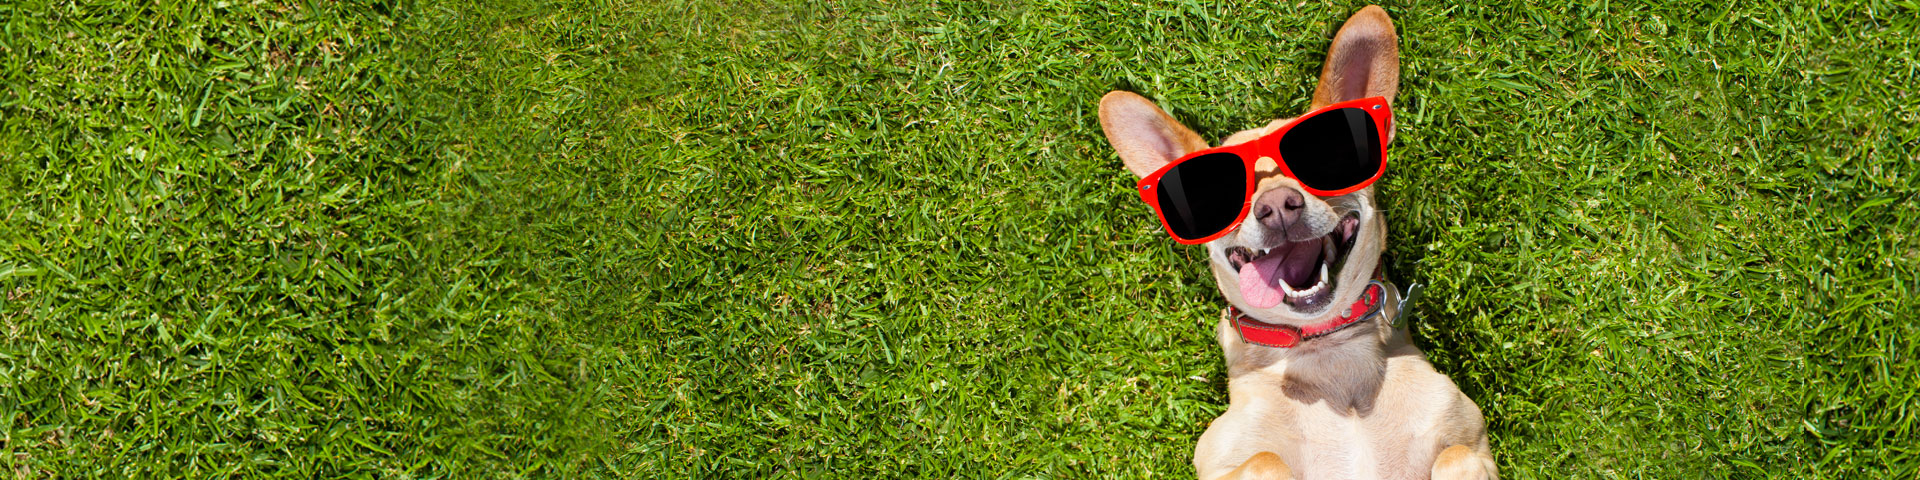
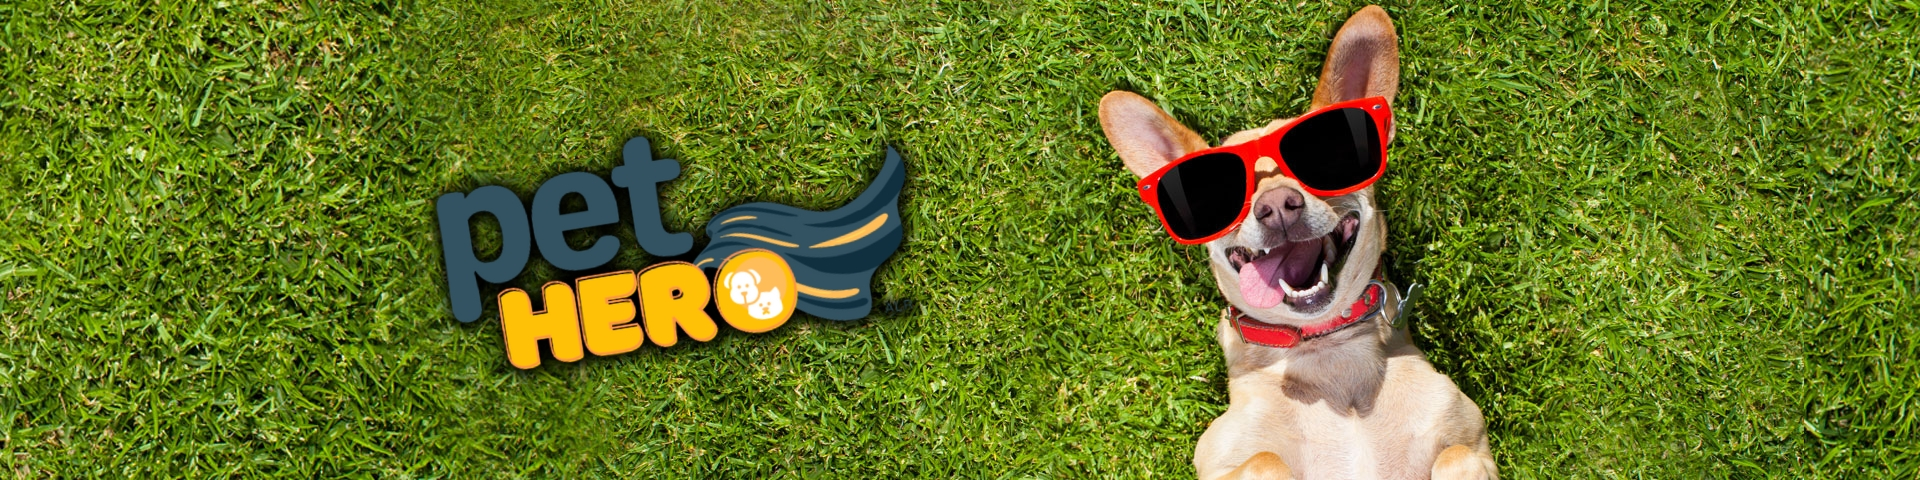
comments
se agregaron comentarios y se modifico una imagen del carrusel

diff --git a/Controllers/BookingController.php b/Controllers/BookingController.php
@@ -36,8 +36,8 @@ class BookingController
             if ($_SESSION['type'] == 'O') {
                 if ($idPetsArray != "" && $firstDay != "" && $lastDay != "" && $guardianId != "" && $totalAmount != "") {
 
-                    $myPets = explode(",", $idPetsArray);
-                    $allPets = $this->passArrayIDTOArrayPets($myPets);
+                    $myPets = explode(",", $idPetsArray); //transforma un string de ids en array de ids
+                    $allPets = $this->passArrayIDTOArrayPets($myPets);// el array de id se convierte a un array de mascotas
 
                     $booking =  new Booking($allPets, $firstDay, $lastDay, $_SESSION["id"], $guardianId, $totalAmount);
 
@@ -59,7 +59,7 @@ class BookingController
         }
     }
 
-    public function bookDate($id = '', $firstDay = '', $lastDay = '', $selectedPet = '')
+    public function bookDate($id = '', $firstDay = '', $lastDay = '', $selectedPet = '') // Crea una nueva reserva y hace las respectivas verificaciones
     {
         if (isset($_SESSION['loggeduser'])) {
 
@@ -70,7 +70,7 @@ class BookingController
             $guardian = $guardianDAO->getById($id);
             $guardianName = $guardian->getFirstName();
 
-            if ($_SESSION['type'] == 'O') {
+            if ($_SESSION['type'] == 'O') {         // Verifica el tipo de usuario
                 if ($id != '' && $selectedPet == '') {
 
                     $petList = array();
@@ -90,6 +90,7 @@ class BookingController
                     $ArrayPets = array();
                     $ArrayPets = $this->passArrayIDTOArrayPets($selectedPet);
                     $breed = $this->getBreedBetweenDates($id, $firstDay, $lastDay);
+
                     if ($this->verifyPetBreed($ArrayPets, $breed)) {
 
                         if ($this->verifyPetSize($ArrayPets, $id)) {
@@ -102,7 +103,7 @@ class BookingController
 
                                 $idPetsArray = implode(",", $selectedPet);
 
-                                $substraction = date_diff(date_create($firstDay), date_create($lastDay));
+                                $substraction = date_diff(date_create($firstDay), date_create($lastDay)); // Obtiene los dias que durará el booking
                                 $bookingDays = $substraction->format('%a');
 
                                 $totalAmount = $bookingDays * $guardian->getPrice();
@@ -129,7 +130,7 @@ class BookingController
         }
     }
 
-    function verifyPetBreed($pets, $breed)
+    function verifyPetBreed($pets, $breed) 
     {
         $verification = true;
 
@@ -236,11 +237,11 @@ class BookingController
 
                     require_once(VIEWS_PATH . "requests.php");
                 } else {
-                    $message = "restricted access";
+                    $message = "Restricted access";
                     require_once(VIEWS_PATH . "landingPageOwner.php");
                 }
             } else {
-                $message = "restricted access";
+                $message = "Restricted access";
                 header("location:" . FRONT_ROOT . "Auth");
             }
         } catch (Exception $ex) {
@@ -268,7 +269,6 @@ class BookingController
                         array_push($arrayNickname, $nickname);
                     }
                 }
-
                 require_once(VIEWS_PATH . "bookingHistoryGuardian.php");
             } else {
                 require_once(VIEWS_PATH . "landingPageOwner.php");
@@ -408,12 +408,12 @@ class BookingController
             }
 
             if ($flag == true) {
-                $toReturn = $breedCompare;
+                $toReturn = $breedCompare; // Si hay una raza dentro de las fechas, es asignada al retorno
             } else {
-                $toReturn = 'DiffBreedsOpt';
+                $toReturn = 'DiffBreedsOpt'; // Si se intenta agregar una raza distinta a las existentes en los bookings de esas fechas
             }
         } else {
-            $toReturn = 'EmptyOpt';
+            $toReturn = 'EmptyOpt'; // Si la fecha no esta ocupada por ninguna raza
         }
 
         return $toReturn;

diff --git a/Controllers/PetController.php b/Controllers/PetController.php
@@ -6,9 +6,9 @@ use Models\Pet as Pet;
 use Models\Dog as Dog;
 use Models\Cat as Cat;
 use DB\PetDAO as PetDAO;
+//use JSON\PetDAO as PetDAO;
 use DB\OwnerDAO as OwnerDAO;
 use DB\BreedDAO as BreedDAO;
-//use JSON\PetDAO as PetDAO;
 use Controllers\AuthController as AuthController;
 use Exception as Exception;
 
@@ -39,11 +39,13 @@ class PetController
                             $this->petDAO->add($pet);
                             $message = "You've added a pet successfully!";
                             header("Location:" . FRONT_ROOT . "User?message=" . $message);
+
                         } catch (Exception $e) {
+
                             $message = "Picture or vaccination URL you've entered is duplicated";
                             $catBreedsList = $this->breedDAO->getAllCatBreeds();
                             $dogBreedsList = $this->breedDAO->getAllDogBreeds();
-                            //header("Location:" . FRONT_ROOT . "Pet/addPet?message=" . $message);
+
                             require_once(VIEWS_PATH . "addPet.php");
                         }
                     } else {
@@ -106,25 +108,6 @@ class PetController
         }
     }
 
-    /*function remove($id)
-    {
-        $message=null;
-        try {
-            if (isset($_SESSION['loggeduser'])) {
-                if ($_SESSION['type'] == 'O') {
-                    $this->petDAO->remove($id);
-                    header("location:" . FRONT_ROOT . "Pet/listPets");
-                } else {
-                    require_once(VIEWS_PATH . "landingPageOwner.php");
-                }
-            } else {
-                header("location:" . FRONT_ROOT . "Auth");
-            }
-        } catch (Exception $ex) {
-            $message="DATA ERROR";
-        }
-        
-    }*/
 
     public function Index()
     {

diff --git a/Controllers/MailController.php b/Controllers/MailController.php
@@ -29,15 +29,15 @@ class MailController
             $mail->SMTPAuth   = true;                                     //Enable SMTP authentication
             $mail->Username   = 'lab4pethero@gmail.com';                  //SMTP username
             $mail->Password   = 'oqhldwdadwmoqvze';                      //SMTP password
-            $mail->SMTPSecure = PHPMailer::ENCRYPTION_SMTPS;            //Enable implicit TLS encryption
-            $mail->Port       = 465;                                    //TCP port to connect to; use 587 if you have set `SMTPSecure = PHPMailer::ENCRYPTION_STARTTLS`
+            $mail->SMTPSecure = PHPMailer::ENCRYPTION_SMTPS;             //Enable implicit TLS encryption
+            $mail->Port       = 465;                                     //TCP port to connect to; use 587 if you have set `SMTPSecure = PHPMailer::ENCRYPTION_STARTTLS`
 
             // Receptor
             $mail->setFrom('lab4pethero@gmail.com', 'Pet Hero');
             $mail->addAddress($_SESSION['email'], $_SESSION['nickname']);     //Add a recipient
 
             // Contenido del mail
-            $mail->isHTML(true);                                  //Set email format to HTML
+            $mail->isHTML(true);                                              //Set email format to HTML
             $mail->Subject = "Your Pet Hero payment details";
 
             $value_to_add = "To pay: $" . $price;

diff --git a/Views/petList.php b/Views/petList.php
@@ -10,7 +10,7 @@ include("navOwner.php");
 <html>
 
 <head>
-    <title></title>
+<title>Pet Hero</title>
     <link href="https://cdn.jsdelivr.net/npm/bootstrap@5.2.1/dist/css/bootstrap.min.css" rel="stylesheet"
         integrity="sha384-iYQeCzEYFbKjA/T2uDLTpkwGzCiq6soy8tYaI1GyVh/UjpbCx/TYkiZhlZB6+fzT" crossorigin="anonymous">
     <link rel="stylesheet" type="text/css" href="<?php echo CSS_PATH . "list.css" ?>">
@@ -79,11 +79,7 @@ include("navOwner.php");
                                     </ul>
                                 </div>
                             </div>
-                           <!-- <div class="job-right my-4 flex-shrink-0">
-                                <a href="<?php echo FRONT_ROOT . "Pet/remove/" . $pets->getId(); ?>"
-                                    class="btn d-block w-100 d-sm-inline-block btn-light"
-                                    onclick="return confirm('Are you sure that you want to remove that pet?')">Remove</a>
-                            </div> -->
+                  
                         </div>
                         <?php
                         }

diff --git a/Views/bookingHistoryGuardian.php b/Views/bookingHistoryGuardian.php
@@ -10,7 +10,7 @@ include("navGuardian.php");
 <html>
 
 <head>
-    <title></title>
+<title>Pet Hero</title>
     <link href="https://cdn.jsdelivr.net/npm/bootstrap@5.2.1/dist/css/bootstrap.min.css" rel="stylesheet"
         integrity="sha384-iYQeCzEYFbKjA/T2uDLTpkwGzCiq6soy8tYaI1GyVh/UjpbCx/TYkiZhlZB6+fzT" crossorigin="anonymous">
     <link rel="stylesheet" type="text/css" href="<?php echo CSS_PATH . "list.css" ?>">
@@ -20,17 +20,6 @@ include("navGuardian.php");
     <link rel="stylesheet"
         href="https://cdnjs.cloudflare.com/ajax/libs/material-design-iconic-font/2.2.0/css/material-design-iconic-font.min.css"
         integrity="sha256-3sPp8BkKUE7QyPSl6VfBByBroQbKxKG7tsusY2mhbVY=" crossorigin="anonymous" />
-
-    <div class="container">
-        <div class="row">
-
-            <?php /*if ($message != null) { ?>
-            <div class="alert alert-danger">
-                <?php echo $message; ?>
-            </div>
-            <?php }*/ ?>
-
-        </div>
 
         <div class="row">
             <div class="col-lg-10 mx-auto">

diff --git a/DB/PetDAO.php b/DB/PetDAO.php
@@ -2,7 +2,6 @@
 
 namespace DB;
 
-use DAOInterfaces\IPetDAO as IPetDAO;
 use Models\Pet as Pet;
 use Models\Breed as Breed;
 use DB\Connection as Connection;
@@ -11,7 +10,7 @@ use DB\BreedDAO as BreedDAO;
 use \Exception as Exception;
 use Models\Owner;
 
-class PetDAO /*implements IPetDAO*/
+class PetDAO 
 {
     private $connection;
     private $tableName = "Pets";
@@ -192,17 +191,4 @@ class PetDAO /*implements IPetDAO*/
         }
     }
 
-    public function remove($id)
-    {
-        try {
-            $query = "DELETE FROM " . $this->tableName . " WHERE id = :id;";
-
-            $parameters["id"] = $id;
-
-            $this->connection = Connection::GetInstance();
-            $this->connection->ExecuteNonQuery($query, $parameters);
-        } catch (Exception $e) {
-            throw $e;
-        }
-    }
 }

diff --git a/DB/Connection.php b/DB/Connection.php
@@ -21,7 +21,6 @@ namespace DB;
             catch(Exception $ex)
             {
                 throw $ex;
-                echo "excepcion en constructor connection";
             }
         }
 
@@ -48,7 +47,6 @@ namespace DB;
             catch(Exception $ex)
             {
                 throw $ex;  
-                echo "excepcion en execute connection";
             }
         }
         
@@ -67,7 +65,6 @@ namespace DB;
             catch(Exception $ex)
             {
                 throw $ex;
-                echo "excepcion en executenonquery connection";
             }        	    	
         }
         
@@ -80,7 +77,6 @@ namespace DB;
             catch(Exception $ex)
             {
                 throw $ex;
-                echo "excepcion en prepare connection";
             }
         }
         

diff --git a/JSON/GuardianDAO.php b/JSON/GuardianDAO.php
@@ -3,7 +3,7 @@ namespace JSON;
 use DAOInterfaces\IGuardianDao as IGuardianDao;
 use Models\Guardian as Guardian;
 
-class GuardianDAO implements IGuardianDAO
+class GuardianDAO 
 {
     private $guardianList = array();
     private $fileName = ROOT . "Data/Guardians.json";
@@ -97,18 +97,7 @@ class GuardianDAO implements IGuardianDAO
         }  
     }
 
-    /*
-        function remove($code)
-        {
-            $this->loadData();
-
-            $this->guardianList = array_filter($this->guardianList, function($guardian) use($code){
-                return $guardian->getCode() != $code;
-            });
-
-            $this->saveData();
-        }
-        */
+  
 
     private function loadData()
     {

diff --git a/JSON/PetDAO.php b/JSON/PetDAO.php
@@ -3,7 +3,7 @@ namespace JSON;
 use DAOInterfaces\IPetDAO as IPetDAO;
 use Models\Pet as Pet;
 
-class PetDAO implements IPetDAO{
+class PetDAO {
     private $petList = array();
     private $fileName = ROOT . "Data/Pets.json";
     private $maxId;
@@ -81,20 +81,6 @@ class PetDAO implements IPetDAO{
        }
      
     
-        /*    
-        function remove($id)
-        {
-            $this->loadData();
-
-            $pets = array_filter($this->petList, function ($pet) use ($petName) {
-                return $pet->getId() == $id;
-            });
-
-            $this->saveData();
-        }
-        
-        */
-
     private function loadData()
     {
         $this->petList = array();

diff --git a/Controllers/UserController.php b/Controllers/UserController.php
@@ -80,6 +80,7 @@ class UserController
                         if ($message == '') {
                             $message = null;
                         }
+                        
                         $firstDay;
                         $lastDay;
 
@@ -98,8 +99,6 @@ class UserController
             $message = "DATABASE ERROR";
         }
     }
-
-
 
     public function showProfileInfo()
     {
@@ -220,7 +219,7 @@ class UserController
             } else {
                 header("location:" . FRONT_ROOT . "Auth");
             }
-        } catch (Exception $e) {
+        } catch (Exception $ex) {
             $message = "DATABASE ERROR";
         }
     }

diff --git a/Views/landingPageGuardian.php b/Views/landingPageGuardian.php
@@ -9,7 +9,7 @@ include("navGuardian.php");
 <html>
 
 <head>
-    <title>Welcome to Pet Hero</title>
+    <title>Pet Hero</title>
     <link href="https://cdn.jsdelivr.net/npm/bootstrap@5.2.1/dist/css/bootstrap.min.css" rel="stylesheet"
         integrity="sha384-iYQeCzEYFbKjA/T2uDLTpkwGzCiq6soy8tYaI1GyVh/UjpbCx/TYkiZhlZB6+fzT" crossorigin="anonymous">
     <script src="https://cdn.jsdelivr.net/npm/@popperjs/core@2.11.6/dist/umd/popper.min.js"

diff --git a/Views/landingPageOwner.php b/Views/landingPageOwner.php
@@ -9,7 +9,7 @@ include("navOwner.php");
 <html>
 
 <head>
-    <title>Owner Home</title>
+    <title>Pet Hero</title>
     <link href="https://cdn.jsdelivr.net/npm/bootstrap@5.2.1/dist/css/bootstrap.min.css" rel="stylesheet"
         integrity="sha384-iYQeCzEYFbKjA/T2uDLTpkwGzCiq6soy8tYaI1GyVh/UjpbCx/TYkiZhlZB6+fzT" crossorigin="anonymous">
     <script src="https://cdn.jsdelivr.net/npm/@popperjs/core@2.11.6/dist/umd/popper.min.js"
